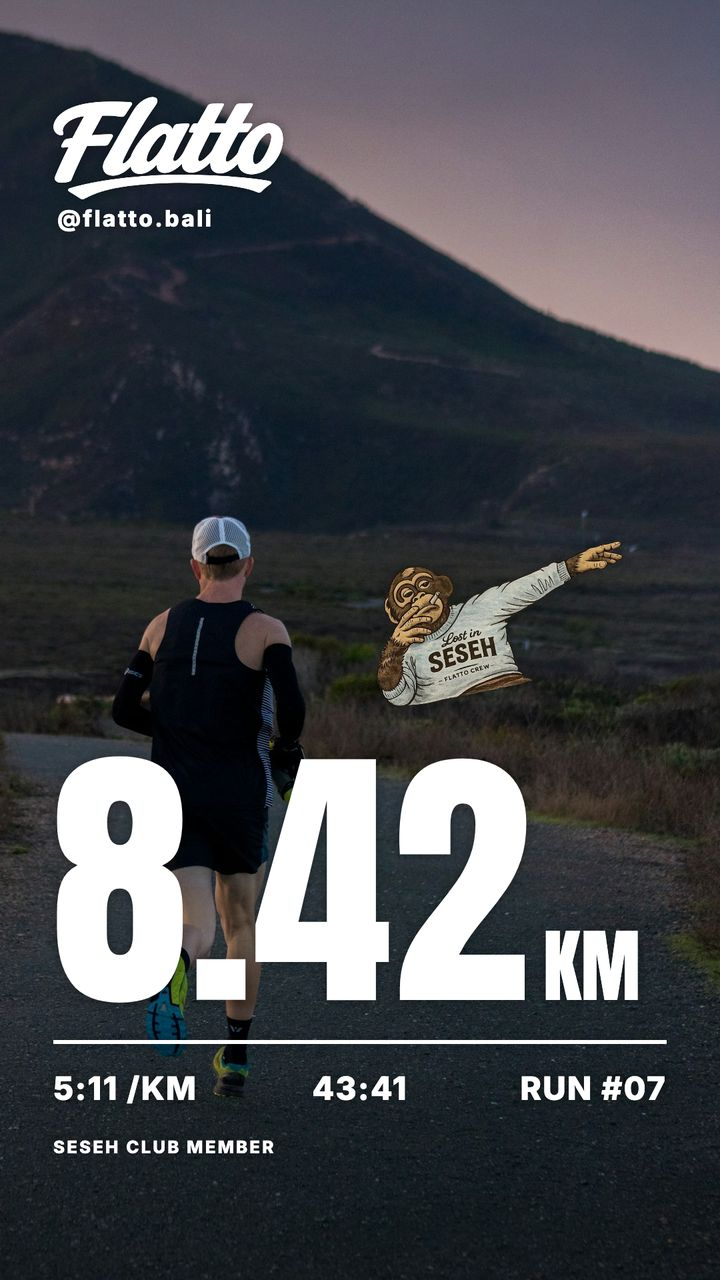
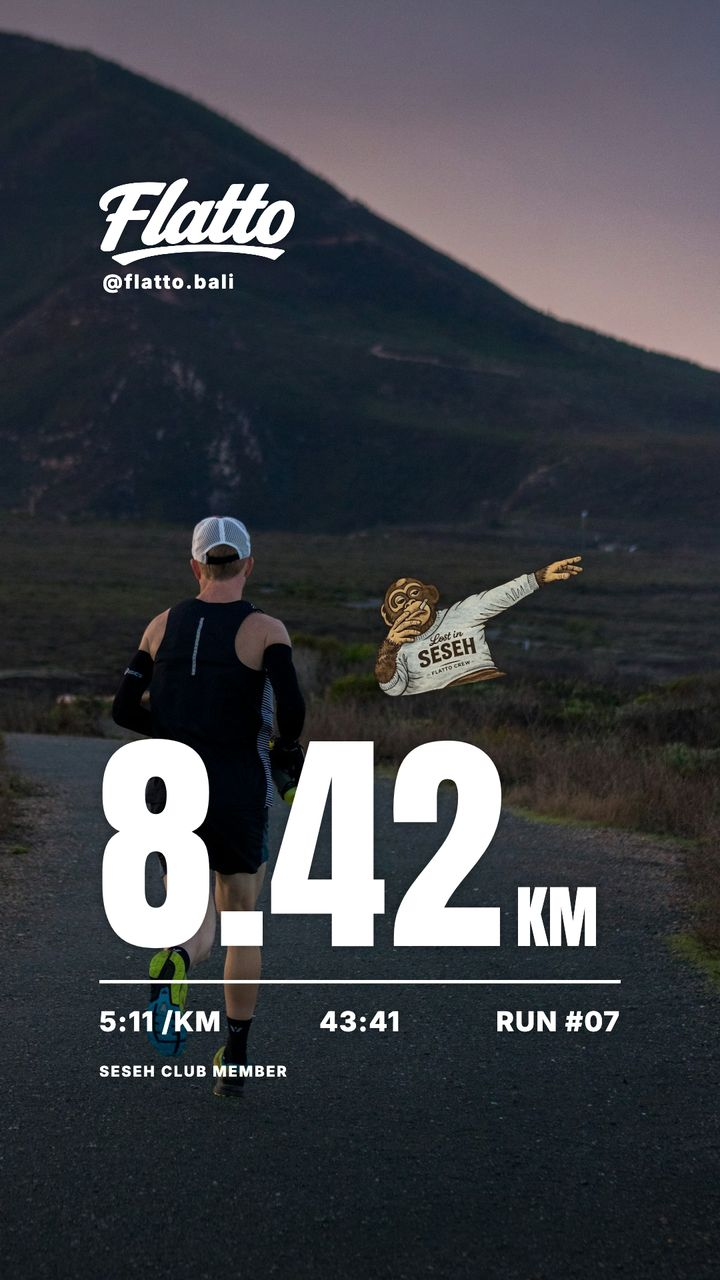
Smaller overlays

Changed region(s): [[0.0611, 0.4062, 0.9167, 0.9062], [0.0611, 0.0625, 0.4278, 0.25], [0.4278, 0.5625, 0.5194, 0.5938]]

diff --git a/index.html b/index.html
@@ -508,6 +508,8 @@ function draw(){
   const now=new Date(),ds=[now.getDate(),now.getMonth()+1].map(n=>String(n).padStart(2,'0')).join('.')+'.'+String(now.getFullYear()).slice(2),hm=now.toTimeString().slice(0,5);
   if(st.endsWith('polaroid')){ctx.fillStyle=c==='#FFFFFF'?'#F4EEDC':c;ctx.fillRect(0,0,W,H)}else if(mw(bgMedia()))cover(bgMedia());
   ctx.shadowColor=c==='#4C2F31'?'rgba(255,255,255,.25)':'rgba(0,0,0,.35)';ctx.shadowBlur=18;
+  // Overlays sit at 85% around the centre so the photo breathes; receipts are already shrunk on their own.
+  const OVERLAY=st.includes('receipt')?1:.85;ctx.save();ctx.translate(W/2,H/2);ctx.scale(OVERLAY,OVERLAY);ctx.translate(-W/2,-H/2);
   if(st==='classic'){
     drawMascot(W/2,120,520);
     let y=560;
@@ -616,6 +618,7 @@ function draw(){
     text(`SESEH  ·  BALI  ·  ${ds}`,W/2,1500,'800 42px Inter',ink,'center',3);
     scriptLogo(W/2,1660,130,ink);text(HANDLE,W/2,1750,'800 36px Inter',ink,'center',3);
   }
+  ctx.restore();
   ctx.shadowColor='transparent';ctx.shadowBlur=0;
   if(!bgVideo)queueBlob();
 }
